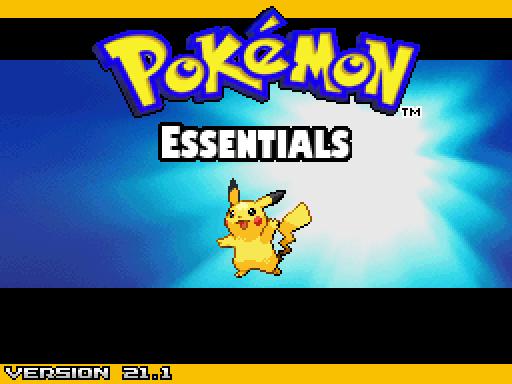
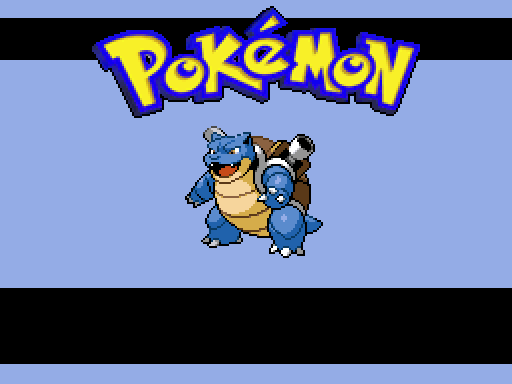
changed menu screen + refactored collision logic

diff --git a/main.js b/main.js
@@ -3,6 +3,7 @@ import { makeMenu } from "./scenes/menu.js";
 import { makeTiledMap } from "./maps/map.js";
 import { debugMode } from "./utils/debugMode.js";
 import { makeCamera } from "./utils/camera.js";
+import { makeNPC } from "./entities/NPC.js";
 
 new p5((p) => {
   let font;
@@ -12,7 +13,8 @@ new p5((p) => {
   const camera = makeCamera(p, 100, 0);
 
   const menu = makeMenu(p);
-  const player = makePlayer(p, 150, 200);
+  const player = makePlayer(p, 0, 0);
+  const npc = makeNPC(p, 150, 200);
   const map = makeTiledMap(p, 100, -150);
 
   p.preload = () => {
@@ -20,6 +22,7 @@ new p5((p) => {
     map.load("./assets/Trainer Tower interior.png", "./maps/world.json");
     menu.loadAssets();
     player.load();
+    npc.load();
   };
 
   p.setup = () => {
@@ -28,14 +31,24 @@ new p5((p) => {
     map.prepareTiles();
     const spawnPoints = map.getSpawnPoints();
     for (const spawnPoint of spawnPoints) {
-      if (spawnPoint.name === "player") {
-        player.x = spawnPoint.x;
-        player.y = map.y + spawnPoint.y + 32;
+      switch (spawnPoint.name) {
+        case "player":
+          player.x = spawnPoint.x;
+          player.y = map.y + spawnPoint.y + 32;
+          break;
+        case "npc":
+          npc.x = spawnPoint.x;
+          npc.y = map.y + spawnPoint.y + 32;
+          break;
+        default:
       }
     }
     player.prepareAnims();
     player.setAnim("idle-down");
     camera.attachTo(player);
+
+    npc.prepareAnims();
+    npc.setAnim("idle-down");
   };
 
   p.draw = () => {
@@ -48,7 +61,10 @@ new p5((p) => {
         p.clear();
         p.background(0);
         player.update(); // this being before the map draw call is important
+        npc.update();
+        npc.handleCollisionsWith(player);
         map.draw(camera, player);
+        npc.draw(camera);
         player.draw(camera);
         break;
       default:

diff --git a/entities/npc.js b/entities/npc.js
@@ -1,16 +1,19 @@
 import { characterProps, characterInterface } from "./character.js";
 import { debugMode } from "../utils/debugMode.js";
 import { drawTile, getFramesPos } from "../utils/spritesheetUtils.js";
+import { checkCollision, preventOverlap } from "../utils/collisionLogic.js";
 
 export function makeNPC(p, x, y) {
   return {
     p,
     x,
     y,
+    screenX: x,
+    screenY: y,
     spriteX: 0,
     spriteY: -15,
     ...characterProps,
-    loadAssets() {
+    load() {
       this.spriteRef = characterInterface.loadAssets(
         this.p,
         "assets/trainer_GENTLEMAN.png"
@@ -52,7 +55,15 @@ export function makeNPC(p, x, y) {
         this.tileWidth,
         this.tileHeight
       );
-      this.p.pop();
+    },
+
+    handleCollisionsWith(entity) {
+      const collision = checkCollision(this, entity);
+
+      if (collision) {
+        preventOverlap(this, entity);
+        entity.freeze = true;
+      }
     },
   };
 }

diff --git a/utils/collisionLogic.js b/utils/collisionLogic.js
@@ -1,0 +1,35 @@
+export function checkCollision(objA, objB) {
+  return !(
+    objA.x + objA.width < objB.x ||
+    objA.x > objB.x + objB.width ||
+    objA.y + objA.height < objB.y ||
+    objA.y > objB.y + objB.height
+  );
+}
+
+export function preventOverlap(objA, objB) {
+  const overlapX =
+    Math.min(objA.x + objA.width, objB.x + objB.width) -
+    Math.max(objA.x, objB.x);
+  const overlapY =
+    Math.min(objA.y + objA.height, objB.y + objB.height) -
+    Math.max(objA.y, objB.y);
+
+  if (overlapX < overlapY) {
+    if (objA.x < objB.x) {
+      // right
+      objB.x = objA.x + objA.width;
+    } else {
+      // left
+      objB.x = objA.x - objA.width;
+    }
+  } else {
+    if (objA.y < objB.y) {
+      // bottom
+      objB.y = objA.y + objA.height;
+    } else {
+      // top
+      objB.y = objA.y - objB.height;
+    }
+  }
+}

diff --git a/entities/player.js b/entities/player.js
@@ -15,6 +15,7 @@ export function makePlayer(p, x, y) {
     screenY: y,
     spriteX: 0,
     spriteY: -15,
+    freeze: false,
     load() {
       this.spriteRef = characterInterface.loadAssets(
         this.p,
@@ -40,7 +41,7 @@ export function makePlayer(p, x, y) {
     },
 
     movePlayer(moveBy) {
-      if (!isMaxOneKeyDown(this.p)) return;
+      if (!isMaxOneKeyDown(this.p) || this.freeze) return;
 
       if (this.p.keyIsDown(this.p.RIGHT_ARROW)) {
         if (this.direction !== "right") this.direction = "right";
